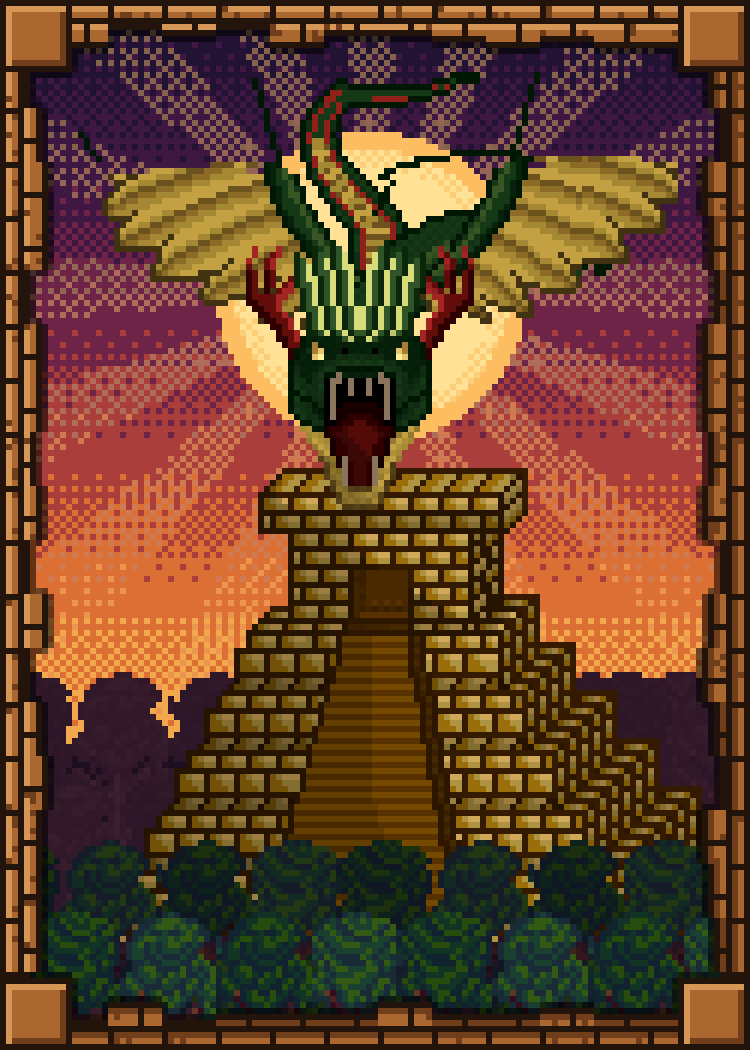
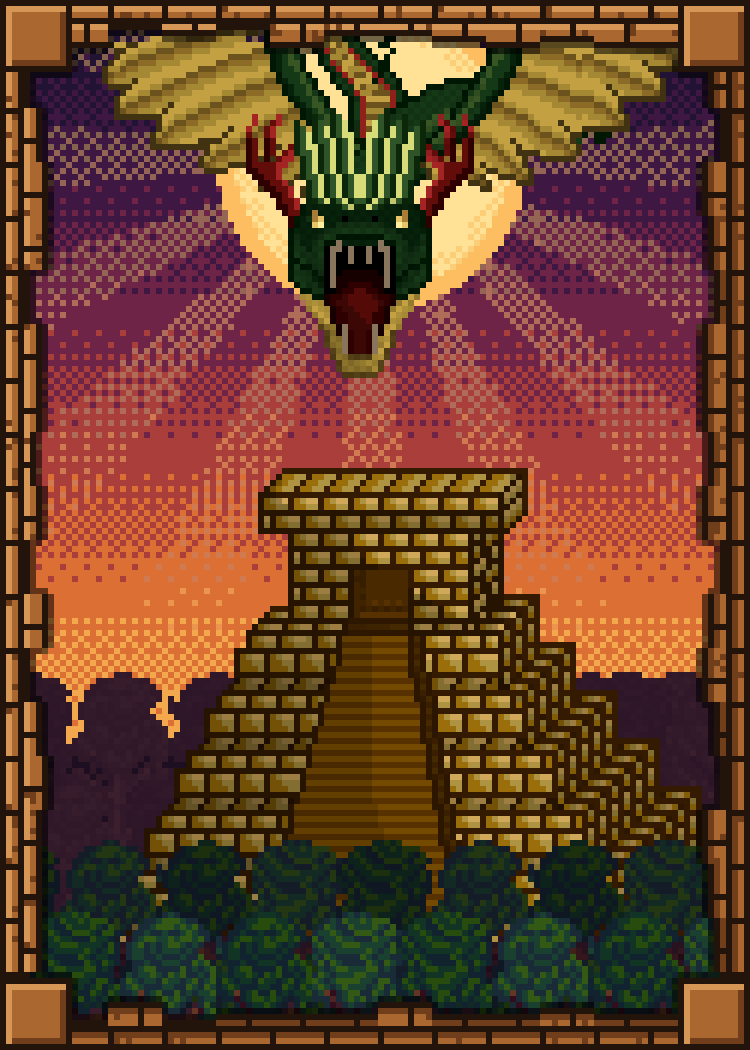
Feathered Serpent: Quetzahuitl nach oben, Schwingen-Oberkante unter dem Rahmen
Quetzahuitl samt Leib und Sonne um 22 Rasterpixel (44 px) nach oben
gesetzt, sodass der obere Rand der Schwingen vom Rahmen verdeckt wird.

Claude-Session: https://claude.ai/code/session_01TEnvTzH2xD44R6Unjv7vDo

diff --git a/data/sleeve-proposals/runde4/generator/s31_feathered_serpent.py b/data/sleeve-proposals/runde4/generator/s31_feathered_serpent.py
@@ -32,7 +32,8 @@ q = np.floor(t + TH * 0.999).clip(0, len(cols) - 1).astype(int)
 for k, c in enumerate(cols):
     cv.a[q == k] = c
 
-SX, SY = 62, 48            # Sonnenmitte (hinter dem Kopf der Schlange)
+QS = 22                    # Quetzahuitl so weit hochgesetzt, dass die Oberkante der Schwingen unter dem Rahmen liegt
+SX, SY = 62, 48 - QS       # Sonnenmitte (hinter dem Kopf der Schlange)
 d = np.sqrt((xx + .5 - SX) ** 2 + (yy + .5 - SY) ** 2)
 ang = np.degrees(np.arctan2(yy + .5 - SY, xx + .5 - SX))
 # Strahlen: 16 Sektoren, jeder zweite heller (gedithert, nach außen schwächer)
@@ -87,7 +88,7 @@ def bez(p0, p1, p2, p3, n=200):
     t = np.linspace(0, 1, n)[:, None]
     return ((1 - t) ** 3) * p0 + 3 * ((1 - t) ** 2) * t * p1 + 3 * (1 - t) * t * t * p2 + t ** 3 * p3
 
-P = [np.array(v, float) for v in [(63, 64), (63, 42), (63, 38), (57, 31), (48, 24), (57, 16), (66, 16),
+P = [np.array(v, float) - (0, QS) for v in [(63, 64), (63, 42), (63, 38), (57, 31), (48, 24), (57, 16), (66, 16),
                                    (73, 16), (76, 13), (79, 13)]]
 C = np.concatenate([bez(P[0], P[1], P[1], P[2], 80), bez(P[2], P[3], P[4], P[5], 120)[1:],
                     bez(P[5], P[6], P[7], P[8], 120)[1:], bez(P[8], P[8], P[9], P[9], 20)[1:]])
@@ -125,7 +126,7 @@ cv.a[inside] = body[inside]
 serp = sprite('g31_serpent', B, [218])
 fr = serp[:, :100].copy()
 fr = max(parts(fr, dil=1), key=lambda p: (p[..., 3] > 0).sum())   # Streupixel weg
-cv.paste(fr, 62 - 49, 12)                         # Fühlerspitzen 24 px, Flügelspitzen 26/224 px vom Rand
+cv.paste(fr, 62 - 49, 12 - QS)                    # Oberkante der Schwingen bei y 4 (Rahmen deckt bis y 7)
 
 out = Canvas(250, 350)
 out.a[:] = up(np.dstack([cv.a, np.full((H, W), 255, np.uint8)]), 2)[..., :3]
